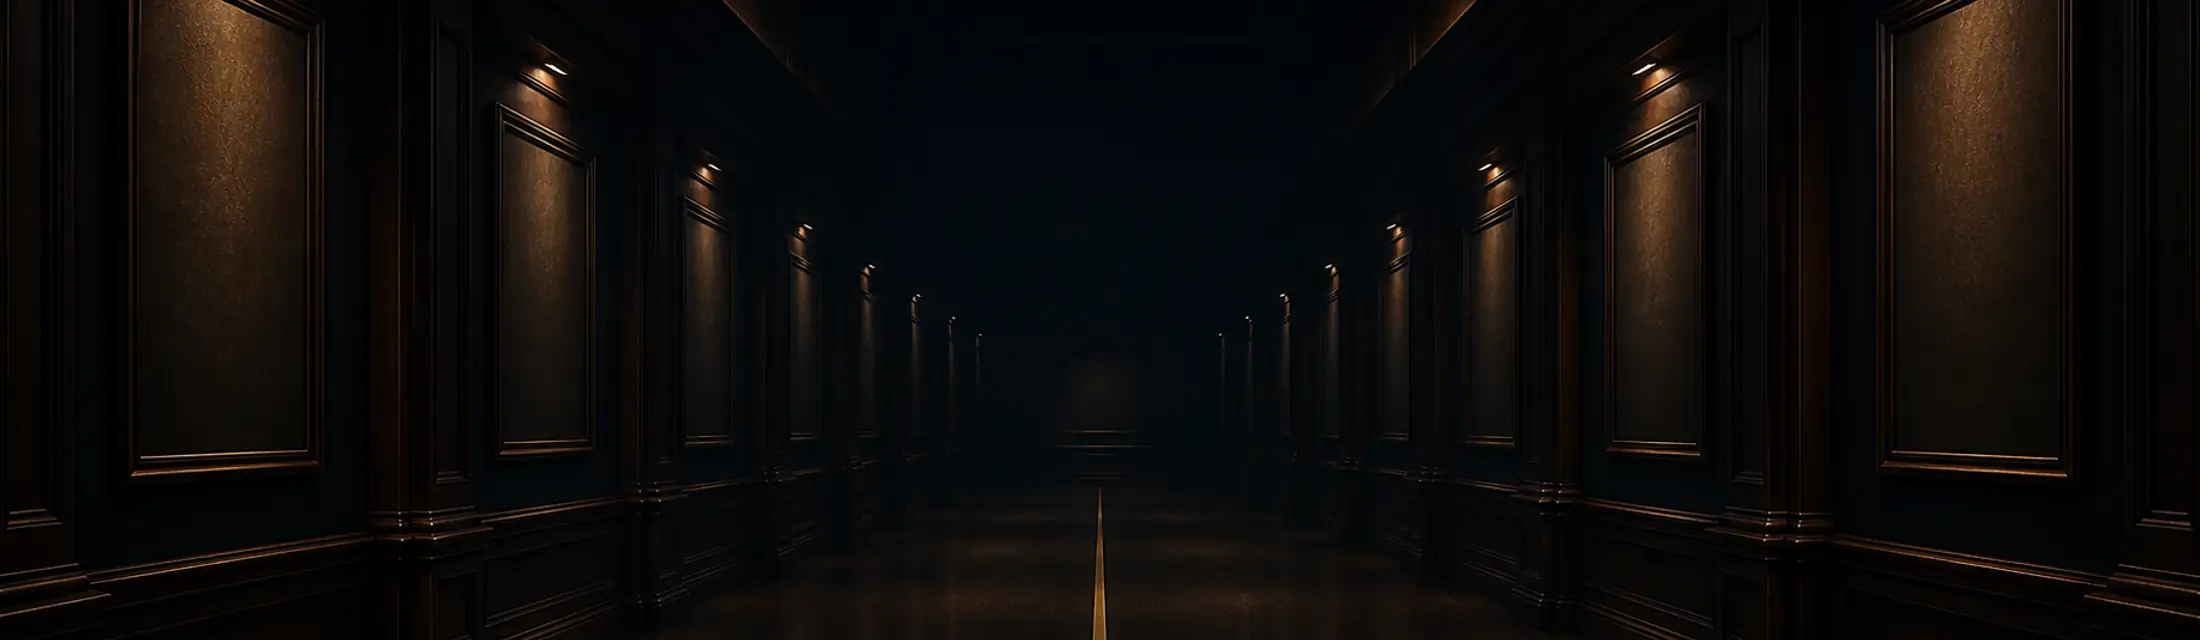
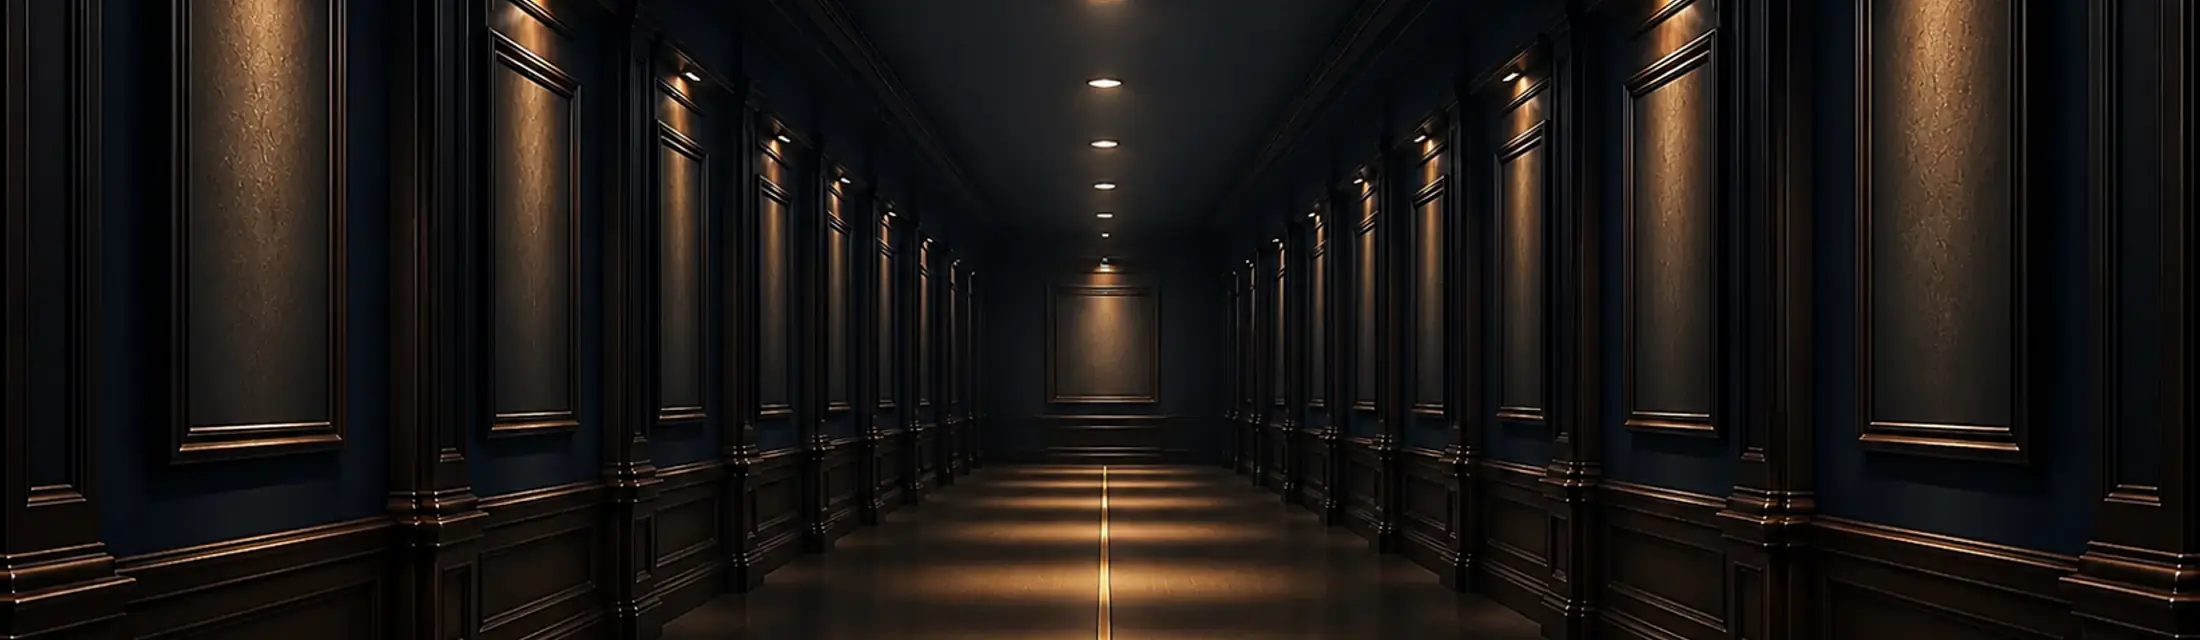
Land the asset delivery: parchment ledgers, re-lit rooms, spotlight
Graphics delivered waves A1/A3/A4/A7 of ASSETS-NEEDED-2026-08-20.md.
QA'd against the brief (2200x640 and <=60KB per room, 256px tileable
textures, alpha on the spotlight, Arena red heat, portrait frames
filled) and wired in:

- Tables and timeline ledgers move from the interim dark fill to the
  real parchment (Option B). The recolor re-scopes the CSS custom
  properties inside .scroll-x/.event-ledger, so every descendant —
  text, links, trophies, rules, .gold/.muted cells — retints to ink
  tones with no page edits; zebra/hover tints swap from white-based to
  ink-based.
- All ten re-lit rooms drop in (same filenames), Home switches from the
  odd-scale trophy-case texture to rooms/entrance-hall.webp at the
  standard 2200x640.
- The A4 light cone hangs over the reigning champion card as an alpha
  overlay; wall tile v2 replaces the invisible pinstripe.
- Retired: gallery-wall-tile.webp, trophy-case-side-panels.webp.

Verified by screenshot on Home, Rivalries (195-row parchment ledger),
and Timeline at production build.

diff --git a/app/globals.css b/app/globals.css
@@ -59,7 +59,7 @@ body {
      "light" reads as sepia haze; this reads as illumination. */
   background:
     radial-gradient(circle 300px at 50% 70px, rgba(255, 246, 224, 0.11), transparent 72%),
-    var(--bg) url("/museum/textures/gallery-wall-tile.webp") repeat;
+    var(--bg) url("/museum/textures/gallery-wall-v2.webp") repeat;
   background-size: 100% 900px, auto;
   background-repeat: repeat-y, repeat;
   color: var(--text);
@@ -305,11 +305,21 @@ a.card:hover { transform: translateY(-2px); filter: brightness(1.14); border-col
 /* The reigning champion sits under a visible warm-white spotlight — layered
    falloff so it reads as light from above, not a hard ring. */
 .champion-card.champion-hero {
+  position: relative;
   box-shadow:
     0 0 24px rgba(255, 246, 224, 0.16),
     0 0 60px rgba(255, 246, 224, 0.12),
     0 0 130px rgba(255, 246, 224, 0.08),
     inset 0 0 0 1px rgba(255, 246, 224, 0.15);
+}
+/* The commissioned light cone (A4) falling from above the case — an alpha
+   overlay, so it reads as light in the air, not a graphic on the card. */
+.champion-card.champion-hero::before {
+  content: ""; position: absolute; left: 50%; top: -160px;
+  transform: translateX(-50%);
+  width: 560px; max-width: 90vw; height: 360px;
+  background: url("/museum/chrome/spotlight.webp") center top / contain no-repeat;
+  opacity: 0.5; pointer-events: none;
 }
 .champion-sigil { font-size: 4rem; line-height: 1; margin-bottom: 0.5rem; }
 .champion-season {
@@ -384,18 +394,34 @@ a.nav-card:hover {
 .plaque p { color: var(--text); }
 
 /* ── Tier 4 — ledgers (tables) ──────────────────────────────────────────── */
-/* The reference archive, not a display case: calm dark paper, thin rules,
-   no brass frame. A 195-row matchup table and a championship plaque should
-   never wear the same material. This fill is the interim CSS stand-in for
-   the parchment texture (assets brief A1); the ink-on-parchment recolor
-   lands with that asset. */
+/* The reference archive as a lit page in the dark room: the delivered
+   parchment texture (assets brief A1, Option B), with every color the
+   table's contents use re-scoped to ink tones. The descendants all read
+   through custom properties, so redefining them here retints text, links,
+   rules, trophies, and .gold/.muted cells without touching any page. */
+.scroll-x, .event-ledger {
+  background: #e3d5b3 url("/museum/textures/ledger-page.webp") repeat;
+  border: 1px solid #a08c60;
+  color: #2b2117;
+  --text: #241c10;
+  --muted: #5c5138;
+  --faint: #8a7c5e;
+  --gold: #7a5d1c;          /* bronze ink — achievement marks on paper */
+  --gold-bright: #8a6b28;
+  --gold-dim: #a08c60;
+  --bone: #241c10;
+  --border: rgba(43, 33, 23, 0.16);
+  --hairline: rgba(122, 93, 28, 0.55);
+}
 .scroll-x {
   overflow-x: auto;
-  background: #0c1524;
-  border: 1px solid #253549;
   border-radius: 4px; padding: 0.4rem 0.9rem;
-  box-shadow: 0 4px 14px rgba(0, 0, 0, 0.3);
+  box-shadow: 0 6px 18px rgba(0, 0, 0, 0.45), 0 0 40px rgba(255, 246, 224, 0.05);
 }
+/* The page-tint rules under the dark theme are white-based and vanish on
+   parchment — ruled guide lines on paper are ink, faint and warm. */
+.scroll-x tbody tr:nth-child(even) { background: rgba(43, 33, 23, 0.05); }
+.scroll-x tbody tr:hover { background: rgba(122, 93, 28, 0.13); }
 table { width: 100%; border-collapse: collapse; font-size: var(--step--1); }
 th, td { padding: 0.55rem 0.7rem; text-align: left; border-bottom: 1px solid var(--border); }
 th {
@@ -467,9 +493,8 @@ td.num { font-variant-numeric: tabular-nums; }
 
 .event-ledger {
   margin-bottom: 1.25rem;
-  background: #0c1524;
-  border: 1px solid #253549;
   border-radius: 4px; padding: 0.2rem 1rem;
+  box-shadow: 0 6px 18px rgba(0, 0, 0, 0.45), 0 0 40px rgba(255, 246, 224, 0.05);
 }
 .event-row {
   display: flex; gap: 0.6rem; align-items: center;

diff --git a/app/page.tsx b/app/page.tsx
@@ -8,7 +8,7 @@ export default function HomePage() {
     <>
       <div
         className="room-photo"
-        style={{ backgroundImage: "url(/museum/textures/trophy-case-side-panels.webp)", aspectRatio: "900 / 480" }}
+        style={{ backgroundImage: "url(/museum/rooms/entrance-hall.webp)" }}
       />
       <div className="room-scrim" />
       <header className="hero">

diff --git a/public/museum/README.md b/public/museum/README.md
@@ -7,14 +7,14 @@ All imagery for the museum skin. Current design direction and the forward-lookin
 | Folder | Contents | Count |
 |---|---|---|
 | `badges/` | Franchise seat crests (F01–F12), keyed to each seat's founding steward | 12 |
-| `chrome/` | Site furniture: plaque-frame (the `border-image` on tier-1 artifact cards), divider caps, ticks. `wordmark.svg` and `footer-plaque.svg` are **retired** (nav and footer render real HTML text now); both are kept only until the A5 nameplate commission replaces the wordmark idea properly | 7 |
+| `chrome/` | Site furniture: plaque-frame (the `border-image` on tier-1 artifact cards), divider caps, ticks, and `spotlight.webp` (the alpha light-cone over the reigning champion). `wordmark.svg` and `footer-plaque.svg` are **retired** (nav and footer render real HTML text now); both are kept only until the A5 nameplate commission replaces the wordmark idea properly | 8 |
 | `icons/events/` | Timeline event-type icons (championship, heartbreak, keeper, etc.) | 15 |
 | `icons/exhibits/` | Home page's 6 exhibit-grid icons | 6 |
 | `icons/positions/` | QB/RB/WR/TE/DEF/K — vector helmet marks, no photo dependency | 6 |
 | `medallions/eras/` | The four league era medallions (Founding, Workhorse, Keeper Revolution, Modern) | 4 |
 | `medallions/managers/` | One sigil medallion per manager, `manager-{slug}.svg` | 24 |
-| `rooms/` | The distinct background scene for each section, rendered as a fixed full-width backdrop behind that section's pages. All nine are queued for the A3 re-light pass | 9 |
-| `textures/` | Site-wide tiled wall (`gallery-wall-tile.webp`), the nav's wood panel (`navy-walnut-panel.png` — **live in the nav**, not a leftover), and Home's hero scene (`trophy-case-side-panels.webp`) | 3 |
+| `rooms/` | The distinct background scene for each section (including Home's `entrance-hall.webp`), rendered as a fixed full-width backdrop behind that section's pages. All ten are the **re-lit A3 delivery** (2026-08-21): warm-white light pools, per-room signatures, the Arena's red heat, filled portrait frames | 10 |
+| `textures/` | Site-wide tiled wall (`gallery-wall-v2.webp`), the nav's wood panel (`navy-walnut-panel.png` — **live in the nav**, not a leftover), and the table parchment (`ledger-page.webp`, plus the unused dark fallback `ledger-page-dark.webp`) | 4 |
 
 ## Conventions
 

diff --git a/ASSETS-NEEDED-2026-08-20.md b/ASSETS-NEEDED-2026-08-20.md
@@ -101,11 +101,17 @@ Only if real league artifacts exist (trophy, draft board, old printouts, league 
 
 All owner decisions are in (2026-08-20): league name confirmed as literally *"{insert witty name here}"* — design A5 as the deliberate joke; night-gallery lighting and full room regeneration approved for A3; parchment Option B confirmed for A1; A8 is limited to a handful of existing draft-day photos.
 
-| Wave | Items | Blocked on |
-|---|---|---|
-| 1 | A1 ledger paper · A2 frame system · A5 nameplate | Nothing — all approved, start any time |
-| 2 | A3 re-lit rooms (+Arena heat, filled gallery, home hall) · A4 spotlight | Nothing — approved |
-| 3 | A6 small medallions/de-Arial · A7 wall tile | Nothing — batch when convenient |
-| — | A8 object photos | Sourcing the draft-day photos from the owner |
+**Delivery status (2026-08-21): A1, A3 (all ten rooms incl. entrance hall), A4, and A7 delivered, QA'd (size ceilings, dimensions, alpha, Arena heat, filled portrait frames all verified), and live.** The parchment table material and ink recolor are implemented; the old wall tile and hero texture are retired.
+
+| Item | Status |
+|---|---|
+| A1 ledger paper | ✅ Delivered & live (light version in use; `-dark` kept as fallback) |
+| A2 frame system (artifact frame v2, case corners) | ⬜ **Still needed** — tier-1 cards still use the original chunky `plaque-frame.svg` |
+| A3 re-lit rooms | ✅ Delivered & live, all ten |
+| A4 spotlight | ✅ Delivered & live over the reigning champion |
+| A5 nameplate + monogram | ⬜ **Still needed** — highest-value remaining item; name is confirmed |
+| A6 small medallions / de-Arial pass | ⬜ Still needed (batch when convenient) |
+| A7 wall tile v2 | ✅ Delivered & live |
+| A8 object photos | ⬜ Blocked on owner sourcing draft-day photos |
 
 Delivery QA (same bar as previous rounds): tile seams checked at 4× repeat, size ceilings enforced, `grep` for `font-family` and unused `id=` in every SVG before wiring in.

diff --git a/UI-VISUAL-REVIEW-2026-08-20.md b/UI-VISUAL-REVIEW-2026-08-20.md
@@ -2,6 +2,8 @@
 
 **Status (2026-08-20, same day):** all five §13 questions answered by the owner — the league *is* literally named "{insert witty name here}", night-gallery lighting chosen, parchment (Option B) confirmed, only a few draft-day photos exist, room regeneration approved. **Phase 1 (§12) is implemented and verified** against screenshots of Home, Champions, Rivalries, and Timeline: material tiers live, gold re-rationed, warm-white lighting, typography pass (Source Sans 3 body, Playfair on lore/taglines), emoji purge completed, chrome bugs fixed, plus one item found during verification — the Dynasties grid rendered seven ornate frames at once and now features only the top dynasty. Phases 2–3 are blocked on the `ASSETS-NEEDED-2026-08-20.md` deliveries; Phase 4 is open.
 
+**Update 2026-08-21:** graphics delivered A1/A3/A4/A7 — all QA'd and implemented same day. Tables and timeline ledgers are on the parchment material with full ink re-scoping; all ten re-lit rooms are live (Home now uses `entrance-hall.webp` at the standard scale); the spotlight cone hangs over the reigning champion; wall tile v2 is in. Remaining asset work: A2 (slim artifact frame), A5 (nameplate/monogram), A6 (small medallion variants), A8 (owner photos). Phase 4's grid audit was folded into the 2026-08-20 route audit.
+
 Scope: every visual layer of the site, reviewed piece by piece — background imagery, surface/frame system, lighting, typography, color, iconography, chrome, charts, layout rhythm — against the chosen theme, **"The Museum, Lit Properly"** (`SKIN-CONCEPTS-2026-08-19.md` §1). Grounded in the actual asset files in `public/museum/` (all 9 rooms viewed, chrome/medallion/badge SVG sources read) and the live CSS (`app/globals.css`).
 
 Companion doc: `ASSETS-NEEDED-2026-08-20.md` — the graphics-team brief for everything below that needs new or revised art.
